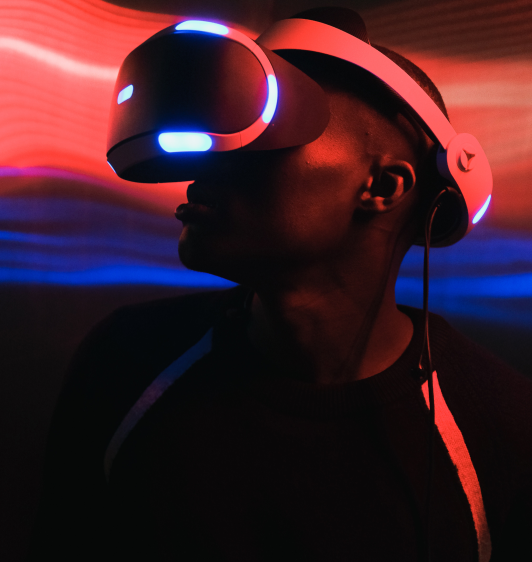
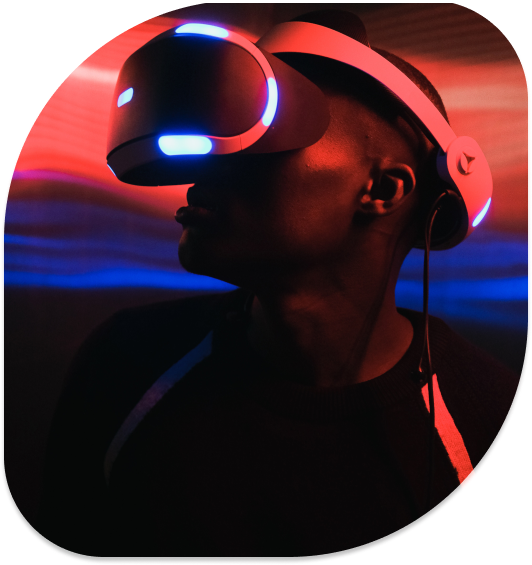
C6 SECCION 3 and RESPONSIVE

diff --git a/src/App.jsx b/src/App.jsx
@@ -4,6 +4,8 @@ import img2 from "../src/image/woman.png"
 import img3 from "../src/image/Location-Icon.png"
 import img4 from "../src/image/phone-call.png"
 import img5 from "../src/image/mail.png"
+import img6 from "../src/image/flecha larga.png"
+import img7 from "../src/image/game.png"
 
 import "slick-carousel/slick/slick.css";
 import "slick-carousel/slick/slick-theme.css";
@@ -72,7 +74,7 @@ function App() {
                       <li><button className="w-fit mt-10 font-semibold bg-gradient-to-r from-[#8176AF] to-[#C0B7E8] px-10 py-4 rounded-xl text-[#302c42] cursor-pointer">JOIN HYDRA</button></li>
                       <li><button className="px-10 mt-5 py-4 border-2 rounded-xl font-semibold relative z-20">CONTACT US</button></li>
                     </ul>
-                    
+
                   </div>
                 </div>
               </div>
@@ -237,8 +239,50 @@ function App() {
             </div>
           </Slider>
         </div>
-        <div className="container-SECCION-3 h-[20vh]">
-
+        <div className="conteiner-SECCION-3  mt-20 mx-20 ">
+          <div className="conteiner flex w-[100%]">
+            <div className="cont11">
+              <p className="textR3 text-white text-centerr font-bold">INTRODUCTION</p>
+              <div className="flex items-center gap-5 con">
+                <p className="textR3 text-white font-light">TO HYDRA VR</p>
+                <img className="xx" src={img6} alt="" />
+              </div>
+            </div>
+            <div className="cont12 w-[50%] flex items-center ">
+              <p className="text-xl text-white font-light">
+                Vitae sapien pellentesque habitant morbi tristique senectus et netus et. Feugiat nibh sed pulvinar proin gravida hendrerit lectus. Mi sit amet mauris commodo quis imperdiet massa tincidunt nunc. Viverra aliquet eget sit amet tellus. Ornare lectus sit amet est placerat in. Lectus magna fringilla urna porttitor rhoncus vitae.
+              </p>
+            </div>
+          </div>
+          <div className="conteiner flex mt-20">
+            <div className="cont13 flex con w-[50%]">
+              <img src={img7} alt="" />
+            </div>
+            <div className="cont14 w-[50%] mt-5">
+              <p className="textR3 text-white text-centerr font-bold">ABOUT</p>
+              <p className="textR3 text-white text-centerr font-light">HYDRA VR</p>
+              <p className="mt-10 title-perfi3 text-white font-light">
+                Eget mi proin sed libero enim sed faucibus turpis. Nisl rhoncus mattis rhoncus urna neque viverra justo. Vivamus at augue eget arcu dictum. Ultrices gravida dictum fusce ut placerat orci. Aenean et tortor at risus viverra adipiscing at in. Mattis aliquam faucibus purus in massa. Est placerat in egestas erat imperdiet sed. Consequat semper viverra nam libero justo laoreet sit amet. Aliquam etiam erat velit scelerisque in dictum non consectetur a. Laoreet sit amet cursus sit amet. Vel eros donec ac odio tempor orci dapibus. Sem nulla pha retra diam sit amet nisl suscipit adipiscing bibendum. Leo a diam sollicitudi n tempor.
+              </p>
+              <div className="flex con">
+                <button className="w-fit mt-10 font-bold bg-gradient-to-r from-[#8176AF] to-[#C0B7E8] px-10 py-4 rounded-full text-[#302c42] cursor-pointer">LET’S GET IN TOUCH</button>
+              </div>
+            </div>
+          </div>
+          <div className="conteiner flex w-[100%] mt-36">
+            <div className="cont11">
+              <p className="textR3 text-white text-centerr font-bold">WHY BUILD</p>
+              <div className="flex items-center gap-5 con">
+                <p className="textR3 text-white font-light">WITH HYDRA?</p>
+                <img className="xx" src={img6} alt="" />
+              </div>
+            </div>
+            <div className="cont12 w-[50%] flex items-center ">
+              <p className="text-xl text-white font-light">
+                Vitae sapien pellentesque habitant morbi tristique senectus et netus et. Feugiat nibh sed pulvinar proin gravida hendrerit lectus. Mi sit amet mauris commodo quis imperdiet massa tincidunt nunc. Viverra aliquet eget sit amet tellus. Ornare lectus sit amet est placerat in. Lectus magna fringilla urna porttitor rhoncus vitae.
+              </p>
+            </div>
+          </div>
         </div>
       </div>
     </>

diff --git a/src/index.css b/src/index.css
@@ -5,7 +5,9 @@
 .xxx{
     display: none;
 }
-
+.cont11{
+    width: 50%;
+}
 
 @media (max-width: 1200px) {
     .tituloPrincipal{
@@ -43,6 +45,27 @@
         width: 100%;
         justify-content: center;
     }
+    .cont12{
+        display: none;
+    }
+    .cont11{
+        width: 100%;
+        margin-top: 40px;
+    }
+    .cont13{
+        width: 100%;
+
+    }
+    .cont14{
+        width: 100%;
+
+    }
+    .con{
+        justify-content: center;
+    }
+    .text-centerr{
+        text-align: center;
+    }
     .xx{
         display: none;
     }
@@ -58,4 +81,11 @@
  .xxx{
     display: block;
  }
+ .conteiner-SECCION-3{
+ margin: 0 20px;
+ }
+ .conteiner{
+    flex-direction: column;
+ }
+
 }

diff --git a/index.html b/index.html
@@ -4,7 +4,7 @@
     <meta charset="UTF-8" />
     <link rel="icon" type="image/svg+xml" href="/vite.svg" />
     <meta name="viewport" content="width=device-width, initial-scale=1.0" />
-    <title>Vite + React</title>
+    <title>HYDRA VR</title>
     <link rel="preconnect" href="https://fonts.googleapis.com">
 <link rel="preconnect" href="https://fonts.gstatic.com" crossorigin>
 <link href="https://fonts.googleapis.com/css2?family=Montserrat:ital,wght@0,100..900;1,100..900&display=swap" rel="stylesheet">

diff --git a/src/App.css b/src/App.css
@@ -4,10 +4,11 @@ body{
   font-family: "Montserrat", sans-serif;
 }
 .BG{
-
   color: transparent;
   background-clip: text;
-
+}
+.Radio{
+  border-radius: 250px 100px 250px 100px ;
 }
 .title-perfi{
   font-size: clamp(25px, 7vw, 55px );
@@ -23,6 +24,9 @@ body{
 }
 .textR2{
   font-size: clamp(12px, 4vw, 18px );
+}
+.textR3{
+  font-size: clamp(23px, 5vw, 48px );
 }
 .container-SECCION-2{
   background: linear-gradient(90deg, #211E2E 19%, #3A3456F2 49%, #211E2E 80%);
